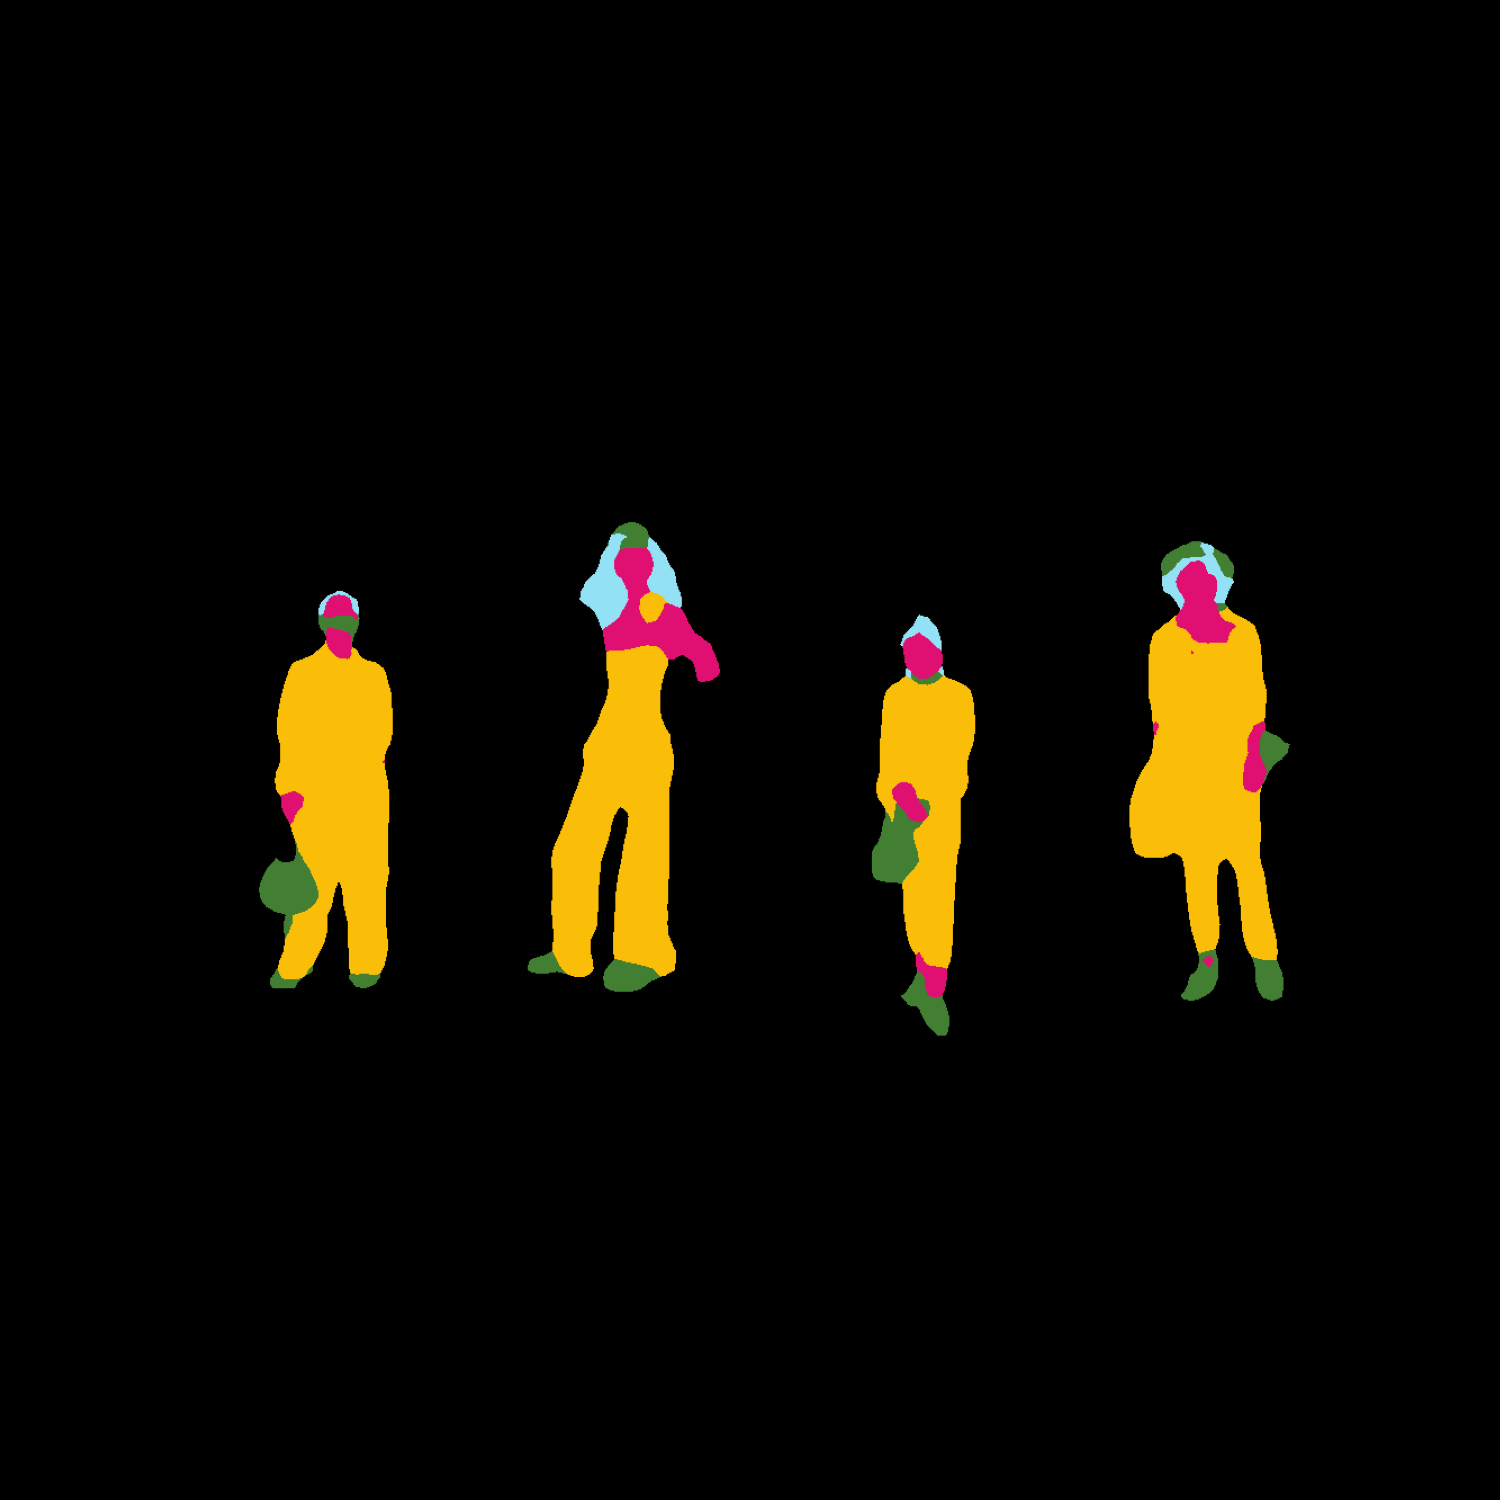
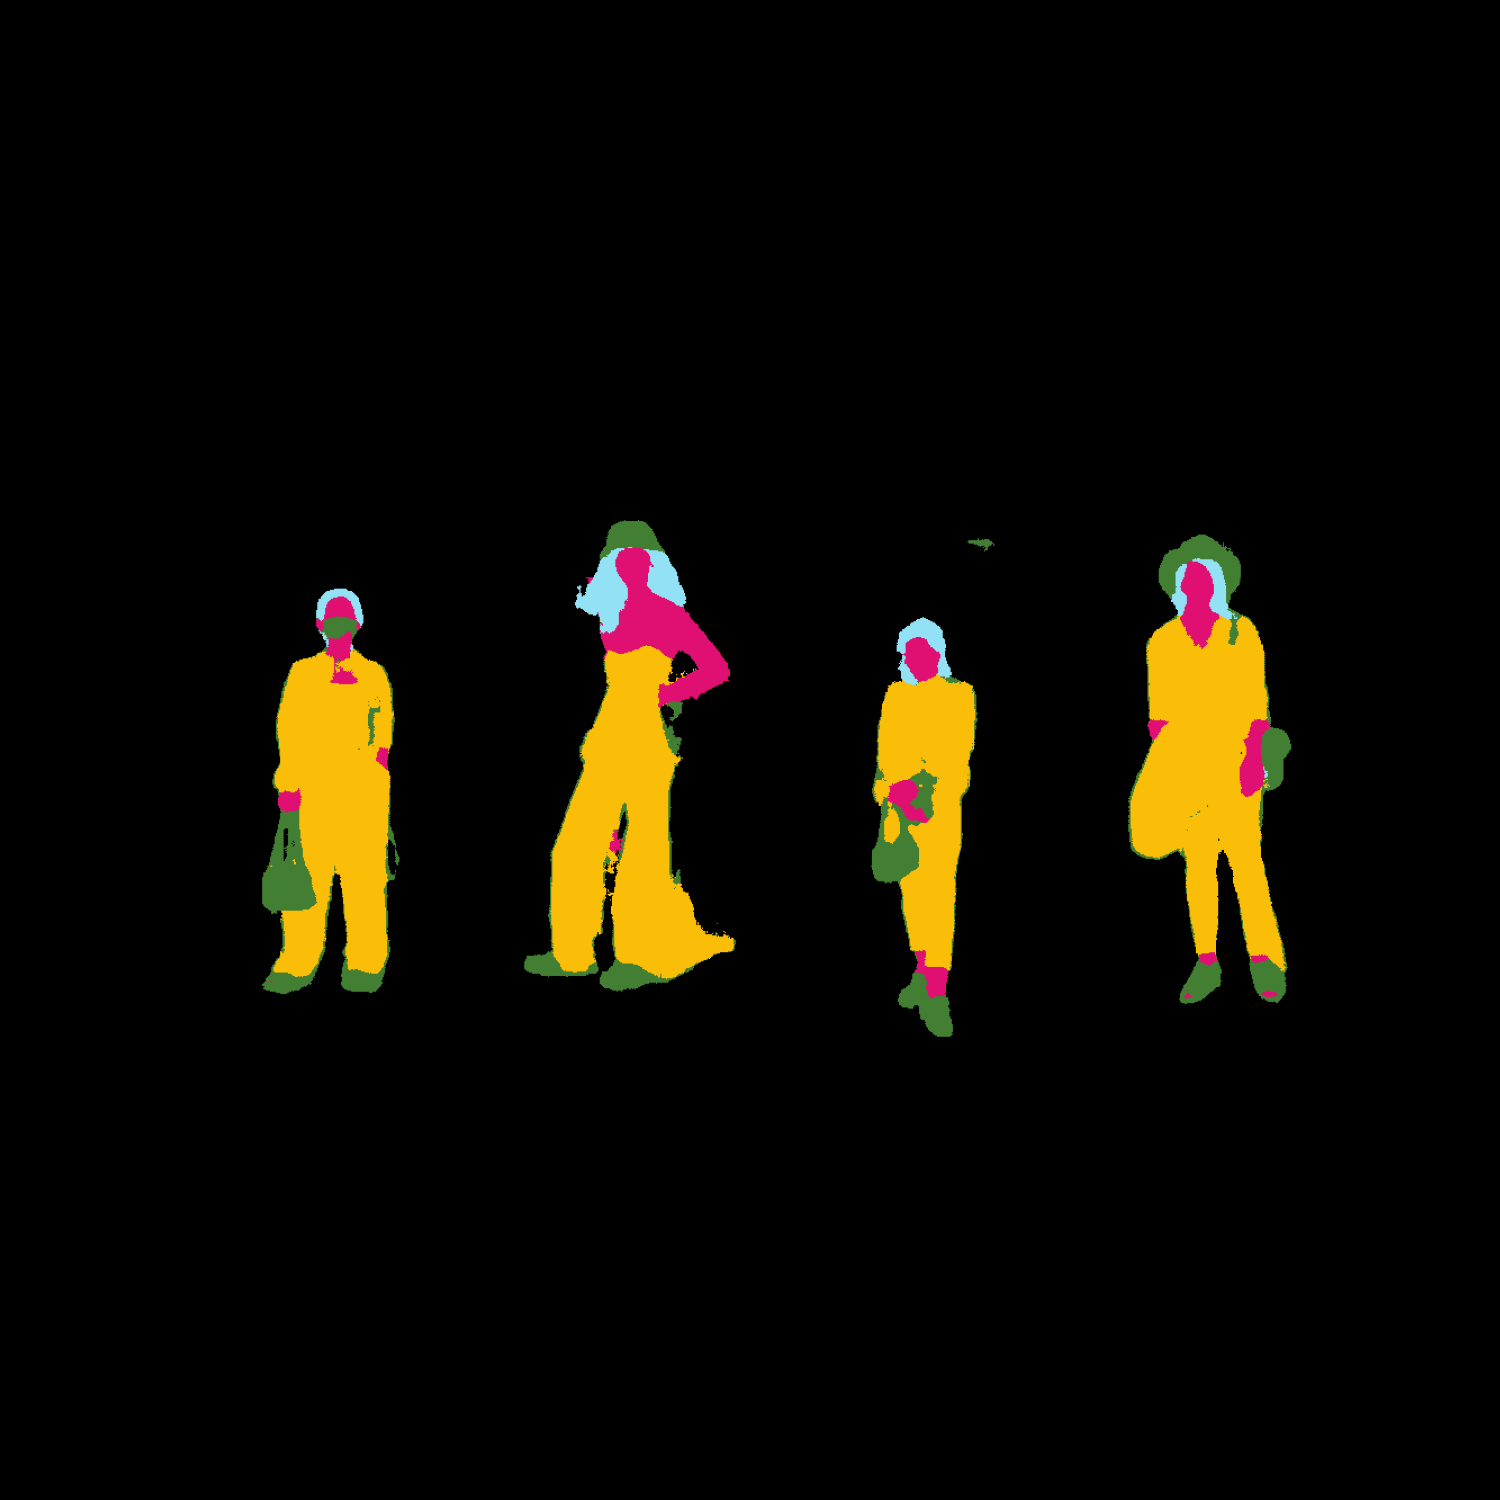
weigthted loss added

diff --git a/train_weighted.py b/train_weighted.py
@@ -10,7 +10,8 @@ from models.lraspp import LRASPP
 from utils import *
 from tqdm import tqdm
 import time
-
+from weighted_cross_entropy import WeightedCrossEntropyLoss
+from utils import calculate_class_weights
 import torch.utils.tensorboard as tb
 writer = tb.SummaryWriter('runs/')
 
@@ -21,7 +22,7 @@ NORMALIZE = False
 ARCHITECTURE = 'FCNs'
 NUM_CLASSES = 5 
 LR = 1e-4
-EPOCHS = 5
+EPOCHS = 15
 
 # Data Load
 transform_norm = transforms.Compose([ 
@@ -41,8 +42,14 @@ else:
 trainset = FashionImageSegmentationDataset(root_dir='data', mode='train', transform=transform_data, normalize=NORMALIZE)
 trainloader = torch.utils.data.DataLoader(trainset, batch_size=BATCH_SIZE, shuffle=True, num_workers=4)
 
+
 valset = FashionImageSegmentationDataset(root_dir='data', mode='test', transform=transform_data, normalize=NORMALIZE)
 valoader = torch.utils.data.DataLoader(valset, batch_size=BATCH_SIZE, shuffle=False, num_workers=4)
+
+
+
+# import sys; sys.exit();
+
 
 torch.manual_seed(123)
 torch.backends.cudnn.benchmark = True
@@ -66,6 +73,8 @@ net = net.to(device)
 
 
 # Optimizer
+loss_weights = torch.tensor([0.2, 0.2, 0.2, 0.2, 0.2], dtype=torch.float32).to(device)
+loss_func_weighted = WeightedCrossEntropyLoss(weight=loss_weights)
 loss_func = nn.CrossEntropyLoss()
 optimizer = torch.optim.Adam(net.parameters(),
                              lr=LR,
@@ -84,7 +93,9 @@ for epoch in range(EPOCHS):
     for i, data in t:
         description = 'TRAIN : {:.1f}%'.format((i + 1) / len(trainloader) * 100)
         t.set_description(description)
-        inputs, targets, _ = data
+        inputs, targets, gt_rgb = data
+        weights = calculate_class_weights(gt_rgb).to(device)
+        loss_func_weighted = WeightedCrossEntropyLoss(weight=weights)
         optimizer.zero_grad()
         inputs = inputs.to(device)
         targets = targets.to(device)  
@@ -95,7 +106,9 @@ for epoch in range(EPOCHS):
         # if ARCHITECTURE == 'DeeplabV3+':
         #   loss = loss_func(predictions['out'], targets)
         # else:
-           loss = loss_func(predictions, targets)   
+          #  loss = loss_func(predictions, targets)
+           loss = loss_func_weighted(predictions, targets)
+          #  print("Loss {}, Loss_weighted {}".format(loss, loss_func_weighted(predictions, targets)))
         # loss.backward(retain_graph=True)
         scaler.scale(loss).backward()
         # optimizer.step()
@@ -141,7 +154,7 @@ end_time = time.time()
 print(f"Running time: {(end_time - start_time):.5f} seconds")
 
 # Save the network
-PATH = "StateDictionary/trained_{}_LR_:{}_EPOCH_:{}.pt".format(ARCHITECTURE, LR, EPOCHS)
+PATH = "StateDictionary/trained_{}_LR_:{}_EPOCH_:{}_weighted.pt".format(ARCHITECTURE, LR, EPOCHS)
 torch.save(net.state_dict(), PATH )
 print("The End of Training and model saved to {}".format(PATH))
 

diff --git a/test.py b/test.py
@@ -10,6 +10,7 @@ from models.lraspp import LRASPP
 from utils import *
 from tqdm import tqdm
 
+
 import torch.utils.tensorboard as tb
 writer = tb.SummaryWriter('runs/')
 
@@ -18,7 +19,7 @@ writer = tb.SummaryWriter('runs/')
 device = torch.device("cuda" if torch.cuda.is_available() else "cpu")
 BATCH_SIZE = 4
 NORMALIZE = False
-ARCHITECTURE = 'LRASPP'
+ARCHITECTURE = 'FCNs'
 NUM_CLASSES = 5 
 
 # Data Load
@@ -37,7 +38,7 @@ else:
   transform_data = transform
 
 testset = FashionImageSegmentationDataset(root_dir='data', mode='test', transform=transform_data, normalize=NORMALIZE)
-testloader = torch.utils.data.DataLoader(testset, batch_size=BATCH_SIZE, shuffle=False, num_workers=4)
+testloader = torch.utils.data.DataLoader(testset, batch_size=BATCH_SIZE, shuffle=False, num_workers=8)
 
 if ARCHITECTURE == 'U-Net':
   net = UnetGenerator(3, 5, 7, ngf=192, norm_layer=nn.BatchNorm2d, use_dropout=False)
@@ -55,7 +56,7 @@ elif ARCHITECTURE == 'LRASPP':
   net = LRASPP(n_class = NUM_CLASSES)
 
 net = net.to(device)
-net.load_state_dict(torch.load("StateDictionary/trained_LRASPP_LR_:0.0001_EPOCH_:15.pt"))
+net.load_state_dict(torch.load("StateDictionary/trained_FCNs_LR_:0.0001_EPOCH_:15_weighted.pt"))
 net.eval()
 
 loss_func = nn.CrossEntropyLoss()
@@ -102,7 +103,7 @@ print('Background Accuracy: %.3f\n Hair Accuracy: %.3f\n Clothes Accuracy: %.3f\
                                                                                                                                          ))
 
 
-
+print('Image Report is being generated...')
 # Image Report
 images, labels, gt_images = next(iter(testloader))
 predictions = (net(images.to(device)))
@@ -110,8 +111,8 @@ if ARCHITECTURE == 'DeeplabV3+' or ARCHITECTURE == 'LRASPP':
     predictions = predictions['out']
 preds_ = torch.argmax(predictions.squeeze(), dim=1)
 output_images = decode_output(preds_)
-
-show_grid_images(images.detach().cpu(),nrow=BATCH_SIZE, save='report/_input.png', legend='INPUT')
-show_grid_labels(labels.detach().cpu(), nrow=BATCH_SIZE, save='report/_labels.png')
-show_grid_images(gt_images.detach().cpu(), nrow=BATCH_SIZE, save='report/ground_truth.png', legend='GROUND TRUTH')
+print("Writing to report folder...")
+# show_grid_images(images.detach().cpu(),nrow=BATCH_SIZE, save='report/_input.png', legend='INPUT')
+# show_grid_labels(labels.detach().cpu(), nrow=BATCH_SIZE, save='report/_labels.png')
+# show_grid_images(gt_images.detach().cpu(), nrow=BATCH_SIZE, save='report/ground_truth.png', legend='GROUND TRUTH')
 show_grid_images(output_images.detach().cpu(), nrow=BATCH_SIZE, save='report/predictions.png', legend='Predictions')

diff --git a/utils.py b/utils.py
@@ -125,3 +125,44 @@ def intersection_over_unit(pred, target, num_classes = 5):
     union = pred_inds.long().sum().data.cpu() + target_inds.long().sum().data.cpu() - intersection
     ious.append(float(intersection) / float(max(union, 1)))
   return np.array(ious).mean()
+
+def calculate_class_weights(target):
+    # Convert the RGB images to grayscale
+    target = target * 255.0
+    target = 0.2989 * target[:, 0, :, :] + 0.5870 * target[:, 1, :, :] + 0.1140 * target[:, 2, :, :]
+    target = torch.round(target, decimals=1)  
+    classes = torch.unique(target)
+    background = round(classes[0].item(), 1)
+    skin = round(classes[1].item(), 1)
+    accessories = round(classes[2].item(), 1)
+    clothes = round(classes[3].item(), 1)
+    hair = round(classes[4].item(), 1)
+    class_weights = []
+    total_background = torch.count_nonzero(target == background)
+    background_ratio = total_background / target.numel()
+    class_weights.append(background_ratio)
+
+
+    total_skin = torch.count_nonzero(target == skin)
+    skin_ratio = total_skin / target.numel()
+
+    class_weights.append(skin_ratio)
+    total_accessories = torch.count_nonzero(target == accessories)
+    accessories_ratio = total_accessories / target.numel()
+
+    class_weights.append(accessories_ratio)
+    total_clothes = torch.count_nonzero(target == clothes)
+    clothes_ratio = total_clothes / target.numel()
+
+    class_weights.append(clothes_ratio)
+    total_hair = torch.count_nonzero(target == hair)
+    hair_ratio = total_hair / target.numel()
+
+    class_weights.append(hair_ratio)
+    # print("background ratio:{} ". format(background_ratio))
+    # print("skin ratio:{} ". format(skin_ratio))
+    # print("accessories ratio:{} ". format(accessories_ratio))
+    # print("hair ratio:{} ". format(hair_ratio))
+    # print("total ratio : {}".format(background_ratio + skin_ratio + accessories_ratio + clothes_ratio + hair_ratio))
+    loss_weights = (1  - torch.tensor(class_weights)) / (len(class_weights) - 1)
+    return loss_weights

diff --git a/weighted_cross_entropy.py b/weighted_cross_entropy.py
@@ -1,0 +1,17 @@
+import torch
+import torch.nn as nn
+
+class WeightedCrossEntropyLoss(nn.Module):
+    def __init__(self, weight=None):
+        super(WeightedCrossEntropyLoss, self).__init__()
+        self.weight = weight
+
+    def forward(self, input, target):
+        """
+        Args:
+            input (torch.Tensor): raw predictions of shape (N, C, H, W), where N is the batch size, C is the number of classes, H is the height, and W is the width.
+            target (torch.Tensor): true labels of shape (N, H, W), where N is the batch size, H is the height, and W is the width.
+        """
+        log_prob = nn.functional.log_softmax(input, dim=1)
+        loss = nn.functional.nll_loss(log_prob, target, weight=self.weight, reduction='mean')
+        return loss

diff --git a/preprocess_weights.py b/preprocess_weights.py
@@ -1,0 +1,18 @@
+import torch 
+import torchvision.transforms as transforms
+from preprocessing import FashionImageSegmentationDataset
+from utils import calculate_class_weights
+
+transform = transforms.Compose([
+        transforms.ToTensor()
+    ])
+
+trainset = FashionImageSegmentationDataset(root_dir='data', mode='train', transform=transform, normalize=False)
+trainloader_for_weights = torch.utils.data.DataLoader(trainset, batch_size=len(trainset), shuffle=True, num_workers=4)
+
+for data in trainloader_for_weights:
+        inputs, targets, gt_image = data
+print(gt_image.shape)
+
+weights = calculate_class_weights(gt_image)
+print(weights)

diff --git a/models/unet.py b/models/unet.py
@@ -69,7 +69,7 @@ class UnetSkipConnectionBlock(nn.Module):
         Parameters:
             outer_nc (int) -- the number of filters in the outer conv layer
             inner_nc (int) -- the number of filters in the inner conv layer
-            input_nc (int) -- the number of channels in input images/features
+            input_nc (int) -- the number of channels in input images/featuresva
             submodule (UnetSkipConnectionBlock) -- previously defined submodules
             outermost (bool)    -- if this module is the outermost module
             innermost (bool)    -- if this module is the innermost module
